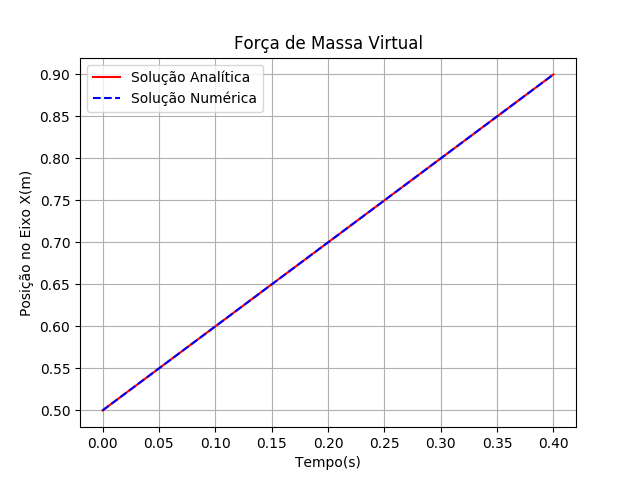
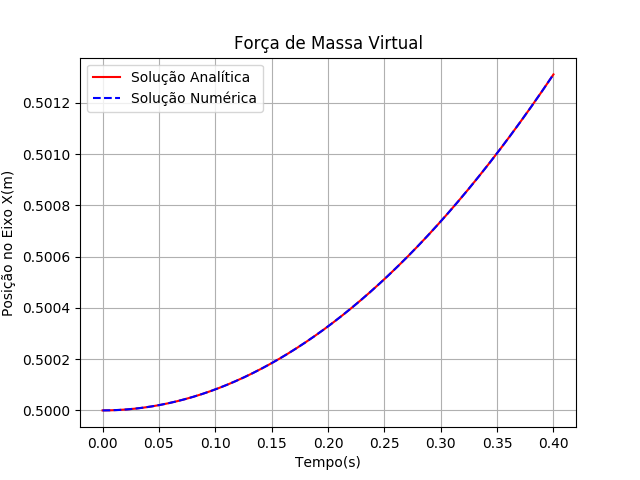
--Solver: -Added acceleration parameter for added mass force calculation.
--Test Cases:
-Fixed added mass force c term and analytic expression.

diff --git a/scripts/solver.py b/scripts/solver.py
@@ -254,6 +254,8 @@ def solve_velocity_field(mesh: Mesh, dt: float = None, total_time: float = 1.0, 
     :param reynolds: Option to provide the value of Reynolds Number [1].
     :param save_each_frame: True if every loop saves the current velocity values.
     :param stop_criteria: Precision used to detect if method can be stopped early.
+    :param return_history: Flag used to check if return is resulting array of property values in the mesh,
+                           or a MeshPropertyStates object that contains the information of values in various timestamps.
     :return: Velocity vectors and pressure values for each point in the mesh.
     """
     dt = dt or mesh.default_dt
@@ -356,13 +358,16 @@ def solve_velocity_field(mesh: Mesh, dt: float = None, total_time: float = 1.0, 
 
 
 def move_particles(mesh: Mesh, velocity: (list, tuple) = None, velocity_x: [list, np.ndarray] = None,
-                   velocity_y: [list, np.ndarray] = None, dt: float = None, single_force: str = None):
+                   velocity_y: [list, np.ndarray] = None, dt: float = None, single_force: str = None,
+                   acceleration_x: [list, np.ndarray] = None, acceleration_y: [list, np.ndarray] = None):
     """
     Method that moves all particles currently inside the mesh domain.
     :param mesh: The Mesh object that defines the geometry of the problem and the boundary conditions associated.
     :param velocity: List or Tuple that contains the vector of velocity for each point in the mesh [m/s].
     :param velocity_x: Vector of velocity in the x axis [m/s].
     :param velocity_y: Vector of velocity in the y axis [m/s].
+    :param acceleration_x: Vector of acceleration in the fluid field in the x axis [m/s²].
+    :param acceleration_y: Vector of acceleration in the fluid field in the y axis [m/s²].
     :param dt: The time difference between frames [s].
     :param single_force: Parameter used for testing single forces one at a time.
     """
@@ -376,6 +381,12 @@ def move_particles(mesh: Mesh, velocity: (list, tuple) = None, velocity_x: [list
 
     util.check_method_call(velocity_x, velocity_y)
 
+    if (acceleration_x is not None) or (acceleration_y is not None):
+        if acceleration_x is None:
+            acceleration_x = np.zeros(mesh.size)
+        if acceleration_y is None:
+            acceleration_y = np.zeros(mesh.size)
+
     # Applying forces to each particle if it is still able.
     for particle in [_particle for _particle in mesh.particles if mesh.contains_particle(_particle)]:
         forces = dict()
@@ -383,8 +394,7 @@ def move_particles(mesh: Mesh, velocity: (list, tuple) = None, velocity_x: [list
         # ----------------- Obtain velocity ----------------------------------------------------------------------------
         fluid_velocity = np.array(mesh.get_interpolated_value((particle.pos_x, particle.pos_y),
                                                               velocity_x, velocity_y))
-        relative_vel = np.array(
-            ((fluid_velocity[0] - particle.velocity_x), (fluid_velocity[1] - particle.velocity_y)))
+        relative_vel = fluid_velocity - particle.velocity
         # relative_vel_norm = np.sqrt(relative_vel.dot(relative_vel))
 
         particle.reynolds = (mesh.density * max(relative_vel) * particle.diameter / mesh.viscosity)
@@ -408,6 +418,9 @@ def move_particles(mesh: Mesh, velocity: (list, tuple) = None, velocity_x: [list
                           )
 
         # -------------------- Added Mass Force ------------------------------------------------------------------------
-        forces["added_mass"] = mesh.density/2. * particle.volume * (relative_vel - particle.velocity)/dt
+        acceleration = (0, 0) if (acceleration_x is None) or (acceleration_y is None) else \
+            np.array(mesh.get_interpolated_value((particle.pos_x, particle.pos_y), acceleration_x, acceleration_y))
+        forces["added_mass"] = mesh.density/2. * particle.volume * (acceleration -
+                                                                    (particle.velocity - particle.last_velocity)/dt)
 
         particle.apply_forces(forces, mesh, dt, single_force)

diff --git a/test_setups/Run_validate_added_mass.py b/test_setups/Run_validate_added_mass.py
@@ -11,6 +11,7 @@ particle_diameter = 1e-3
 vel_const = 2.0
 vel_x_0 = 0.
 vel_y_0 = 0.
+du = 1.
 
 # Set liquid parameters or declare liquid
 # density = 1e3
@@ -21,6 +22,7 @@ liquid = "water"
 mesh = TccLib.Mesh("Forces", liquid=liquid)
 vel_x = np.zeros(mesh.size) + vel_const
 vel_y = np.zeros(mesh.size)
+acc = np.zeros(mesh.size) + du
 
 # Show mesh geometry
 # mesh.show_geometry(names=True)
@@ -34,10 +36,10 @@ mesh.add_particle(list_of_particles=[particle_a])
 
 # Define analytic comparison expression
 m = particle_a.mass
-c = 3 * np.pi * mesh.viscosity * particle_a.diameter
+c = 1/2. * mesh.density * particle_a.volume
 if c/m > 1:
     print("Particle conditions might cause an unexpected behavior!")
-analytic_expression = lambda t: vel_const*t/2. + x_0
+analytic_expression = lambda t: (du*c*t**2)/(2*(c + m)) + vel_x_0*t + x_0
 
 # Define dt based on convergence limit
 dt = min(particle_a.max_dt(mesh.viscosity), 1e-4)/2**6.
@@ -48,7 +50,7 @@ x_vector = np.arange(0, total_time, dt)
 # Move Particles
 for time in x_vector:
     print("\rMoving particles {0:.2f}%".format(100 * time / total_time), end="")
-    TccLib.move_particles(mesh, velocity_x=vel_x, velocity_y=vel_y, dt=dt, single_force=force)
+    TccLib.move_particles(mesh, velocity_x=vel_x, velocity_y=vel_y, dt=dt, single_force=force, acceleration_x=acc)
 
 print("\rFinished moving particles")
 
@@ -59,5 +61,5 @@ y_vector = np.array(particle_a.position_history)[:-1, 0]
 # Show comparison graph
 TccLib.util.show_comparison(x_vector, analytic_expression, y_vector, numeric_label="Solução Numérica",
                             analytic_label="Solução Analítica", title="Força de Massa Virtual",
-                            x_label="Tempo(s)", y_label="Posição no Eixo x(m)",
+                            x_label="Tempo(s)", y_label="Posição no Eixo X(m)",
                             save_file_as="{0}_{1}_validation".format(mesh.name, force))

diff --git a/scripts/particle.py b/scripts/particle.py
@@ -10,7 +10,6 @@ class Particle:
     """
     position_history = None
 
-
     # Number of skipped frames between saved positions.
     frame_skips = 1000
 
@@ -37,6 +36,7 @@ class Particle:
 
         self.velocity_x = velocity[0]
         self.velocity_y = velocity[1]
+        self.last_velocity = self.velocity
 
         self.density = density
         self.diameter = diameter
@@ -100,6 +100,7 @@ class Particle:
                 sum_forces_x += force[0]
                 sum_forces_y += force[1]
 
+        self.last_velocity = self.velocity
         self.velocity_x += sum_forces_x * dt / self.mass
         self.velocity_y += sum_forces_y * dt / self.mass
         self.mark_new_position(mesh, dt)

diff --git a/test_setups/Run_validate_drag.py b/test_setups/Run_validate_drag.py
@@ -59,5 +59,5 @@ y_vector = np.array(particle_a.position_history)[:-1, 0]
 # Show comparison graph
 TccLib.util.show_comparison(x_vector, analytic_expression, y_vector, numeric_label="Solução Numérica",
                             analytic_label="Solução Analítica", title="Força de Arrasto",
-                            x_label="Tempo(s)", y_label="Posição no Eixo x(m)",
+                            x_label="Tempo(s)", y_label="Posição no Eixo X(m)",
                             save_file_as="{0}_{1}_validation".format(mesh.name, force))
